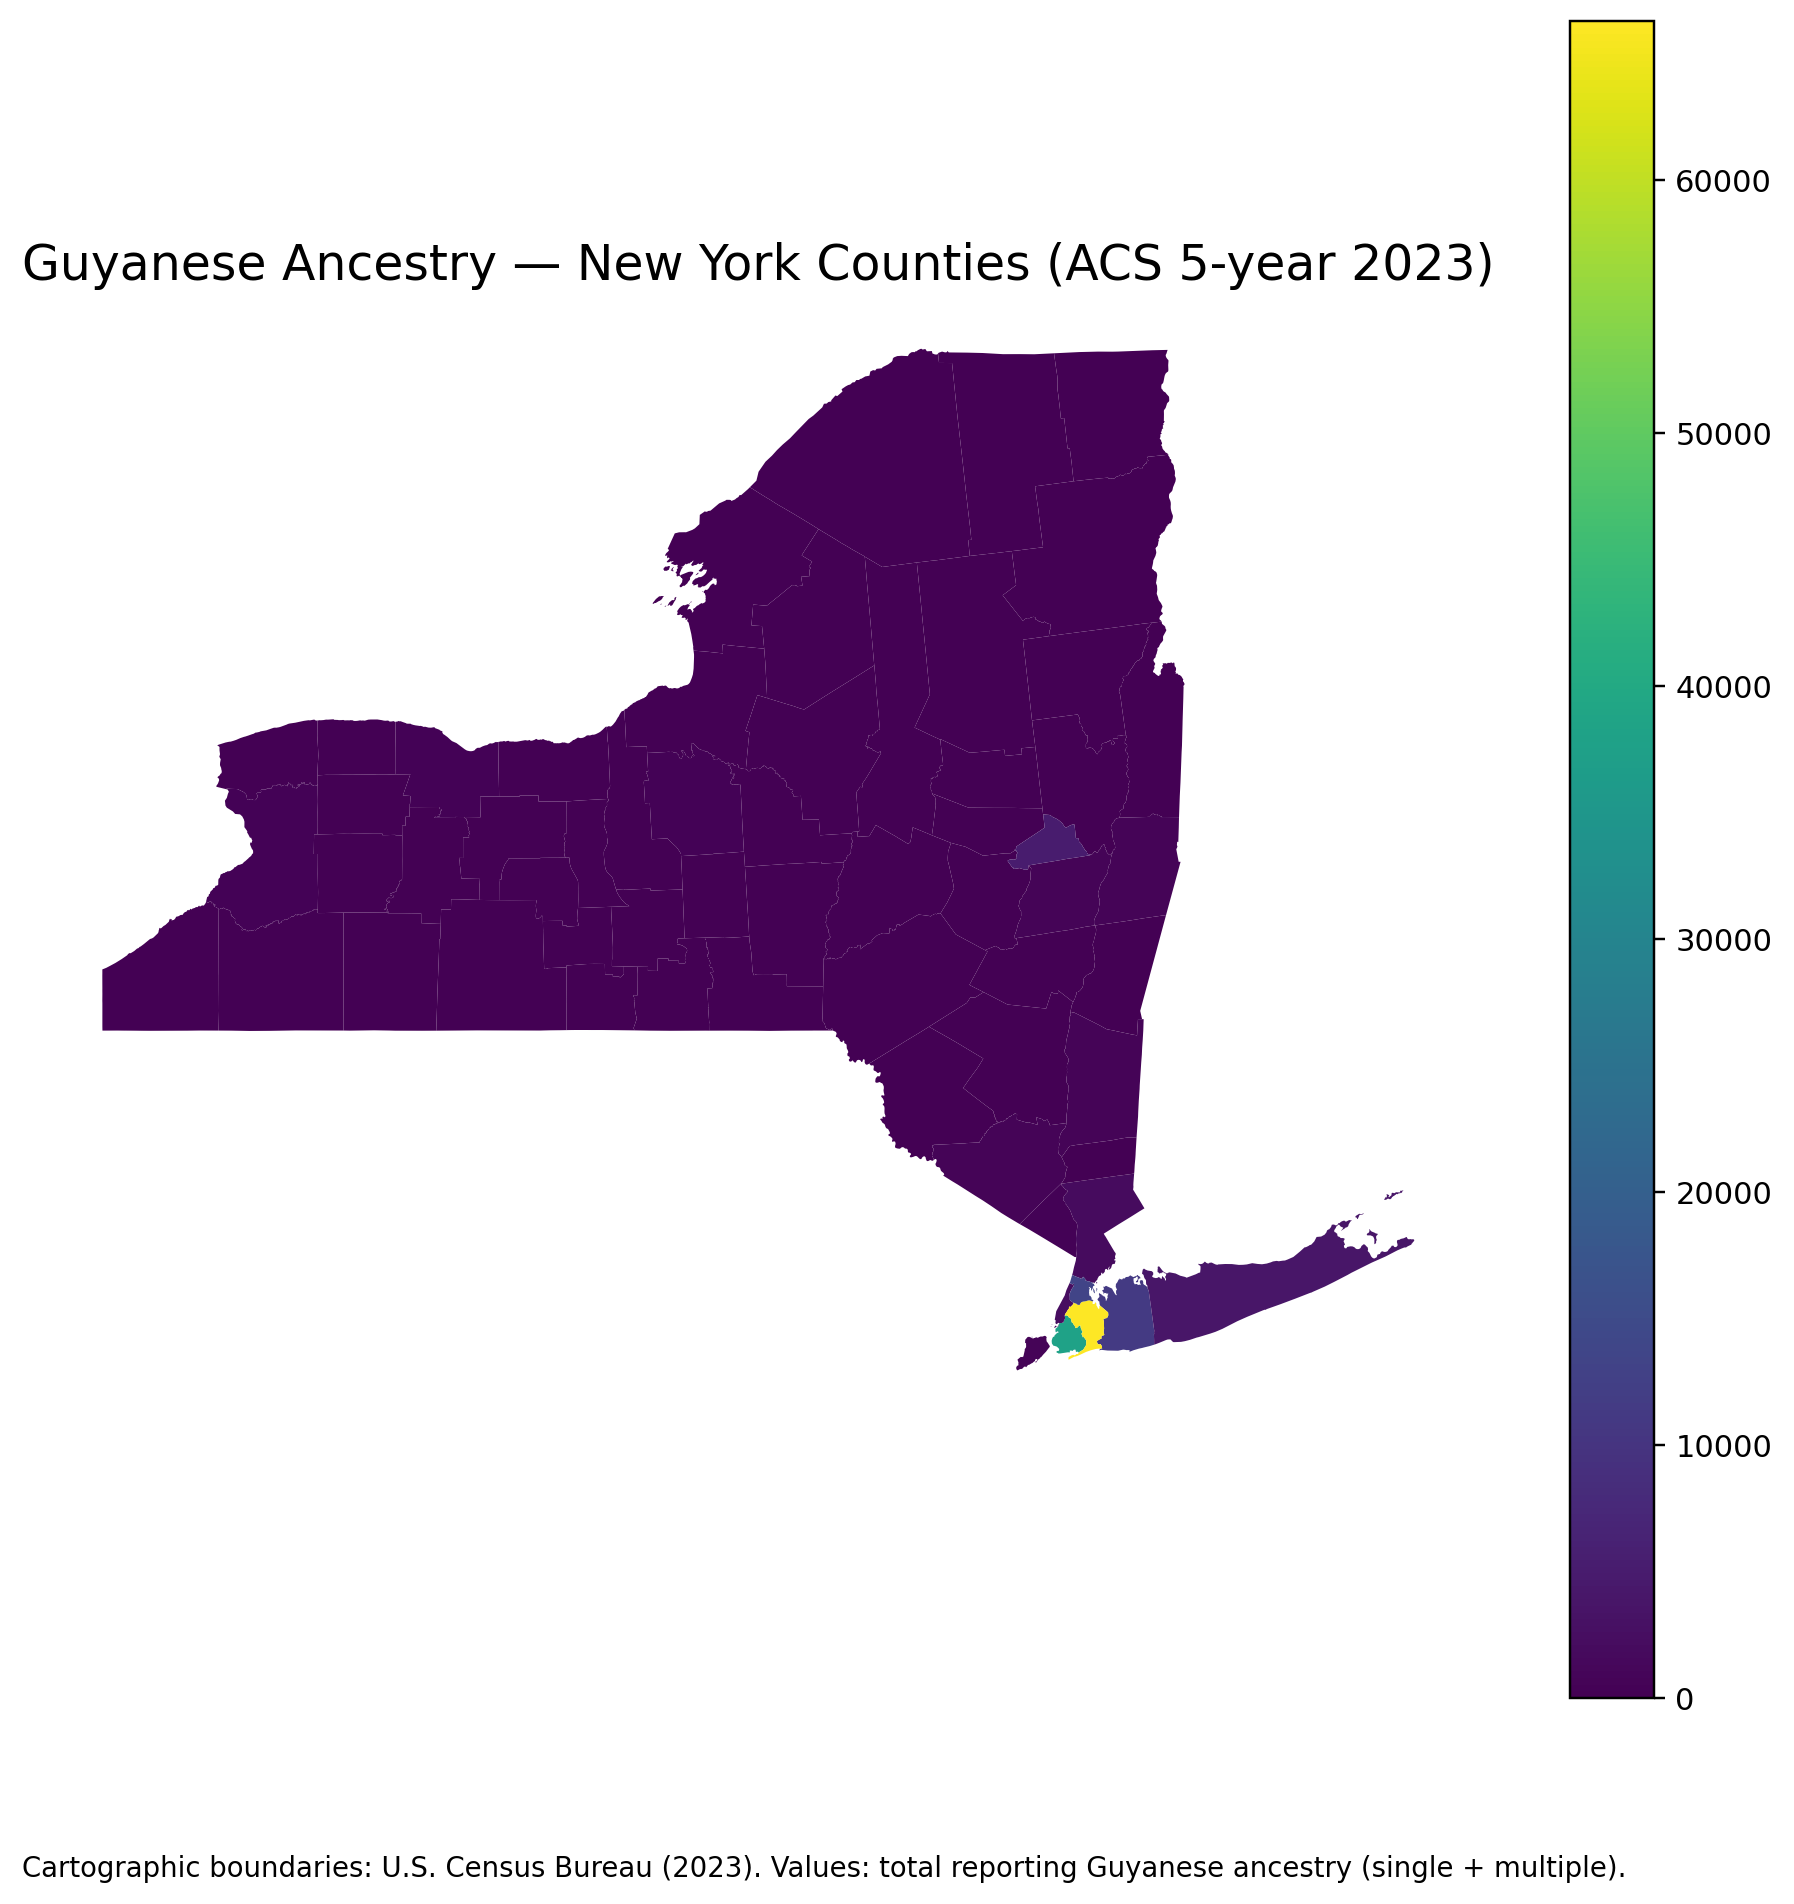
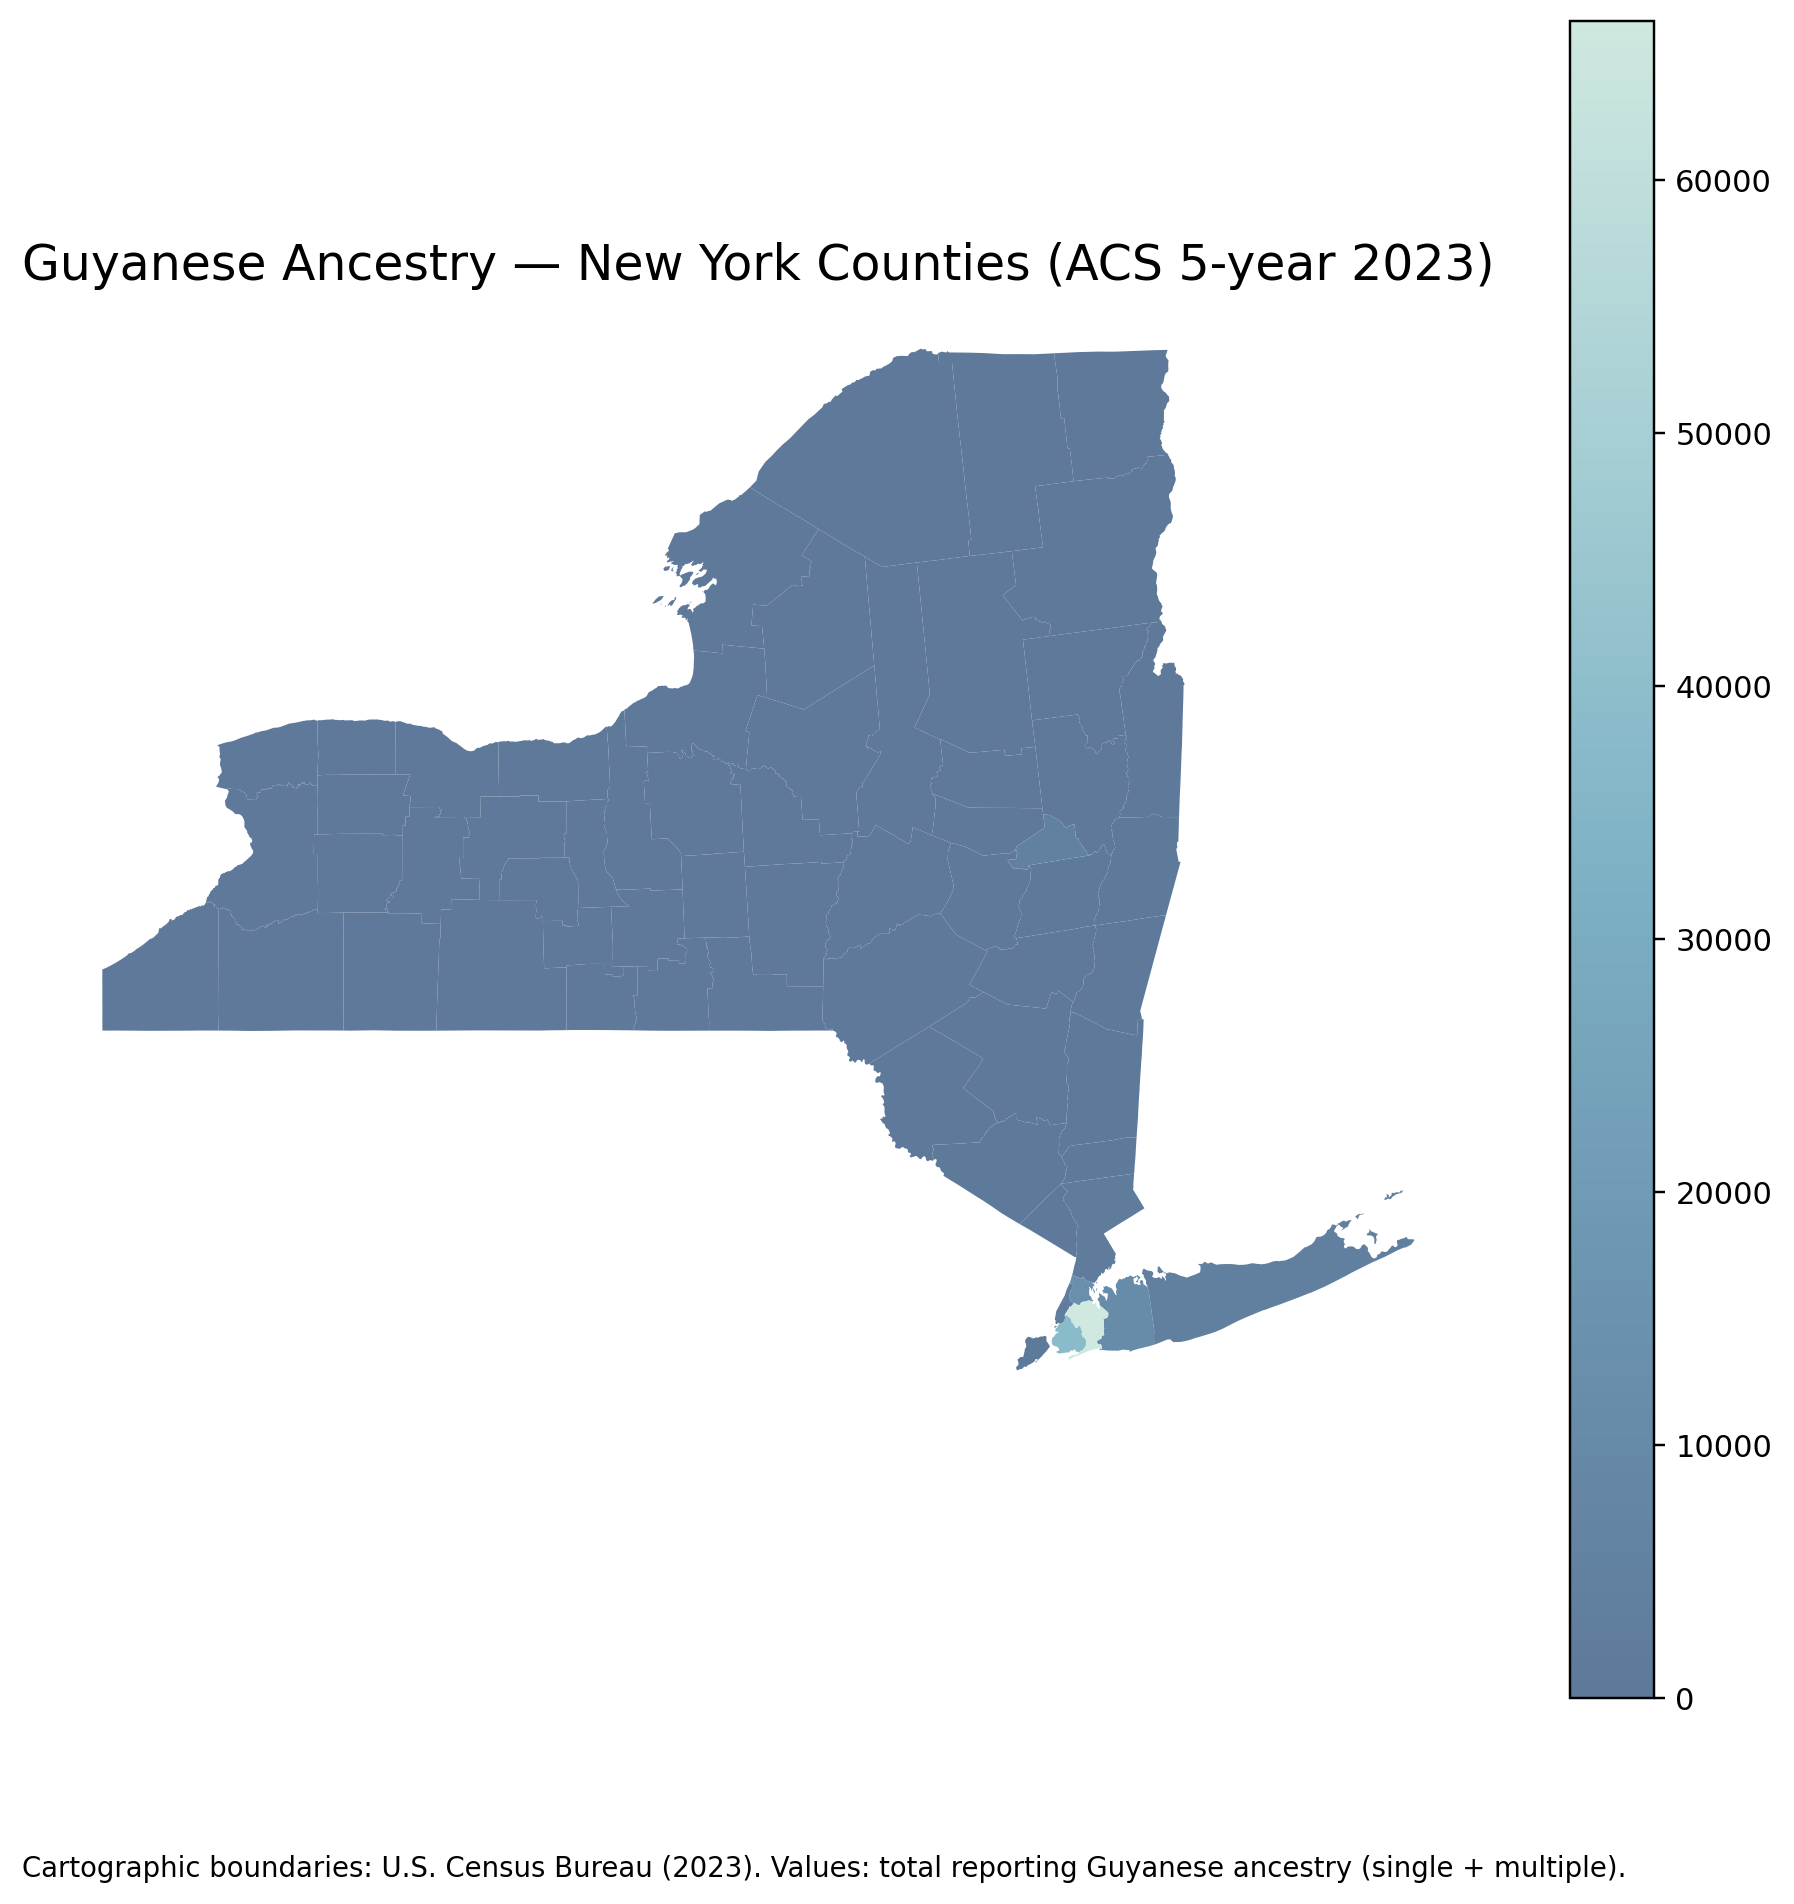
finalchloro

Changed region(s): [[0.0312, 0.1859, 0.7804, 0.7127], [0.874, 0.0, 0.9365, 0.8986]]

diff --git a/viz.py b/viz.py
@@ -12,6 +12,13 @@ import matplotlib.pyplot as plt
 from matplotlib.ticker import StrMethodFormatter
 from mpl_toolkits.axes_grid1.inset_locator import inset_axes
 
+from matplotlib.colors import LinearSegmentedColormap
+
+def tableauish_blues():
+    return LinearSegmentedColormap.from_list(
+        "tableauish_blues",
+        ["#CFE8E0", "#A6CED4", "#7EB2C5", "#6C95B0", "#5E799A"]
+    )
 # Try geopandas for the choropleth; fall back gracefully if missing
 try:
     import geopandas as gpd
@@ -262,7 +269,6 @@ if ny_file.exists():
     save_fig("05_ny_counties_bar.png")
 else:
     print("[warn] Skipping NYC counties bar: run `python guyanese_us_data_pipeline.py acs --geo county --state-fips 36` to generate.")
-
 # ---------- Figure 6: NY counties choropleth ----------
 
 def download_ny_county_shapes() -> Path | None:
@@ -312,7 +318,7 @@ def ny_choropleth():
     m = ny_shapes.merge(ny, left_on="COUNTYFP", right_on="county_fips", how="left")
 
     fig, ax = plt.subplots(figsize=(8.5,8))
-    m.plot(column="guyanese_total_ancestry", legend=True, ax=ax)
+    m.plot(column="guyanese_total_ancestry", legend=True, ax=ax, cmap=tableauish_blues().reversed())
     ax.set_axis_off()
     ax.set_title("Guyanese Ancestry — New York Counties (ACS 5-year 2023)")
     add_caption("Cartographic boundaries: U.S. Census Bureau (2023). Values: total reporting Guyanese ancestry (single + multiple).")
